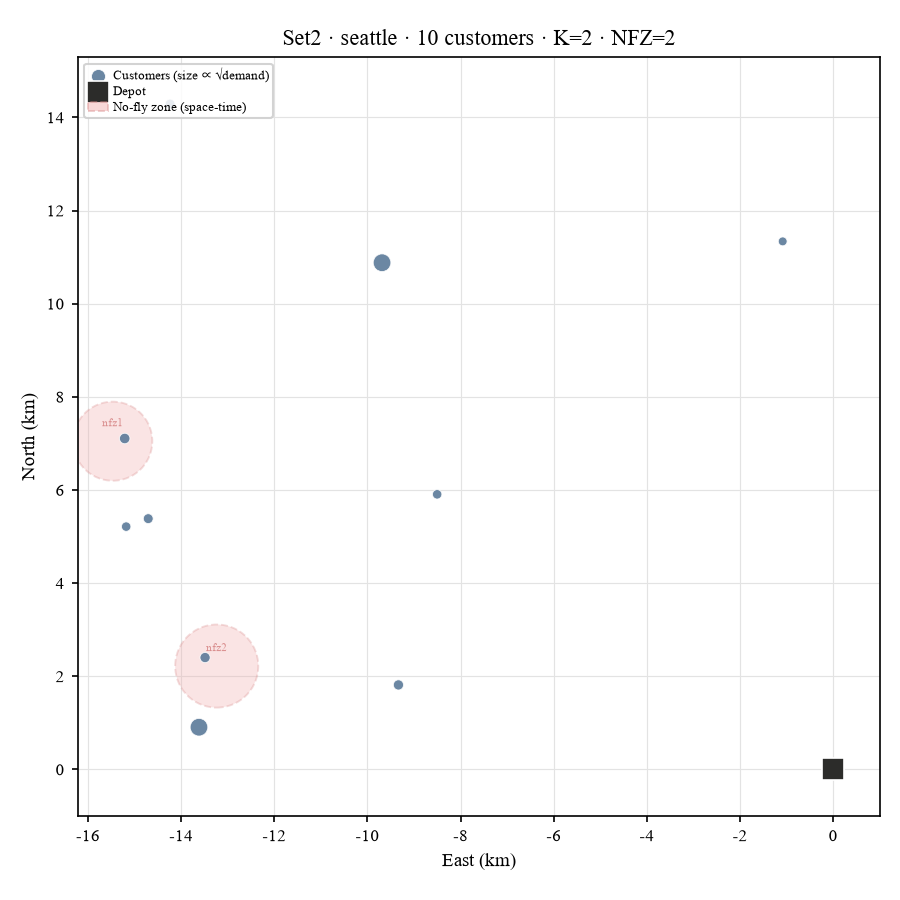
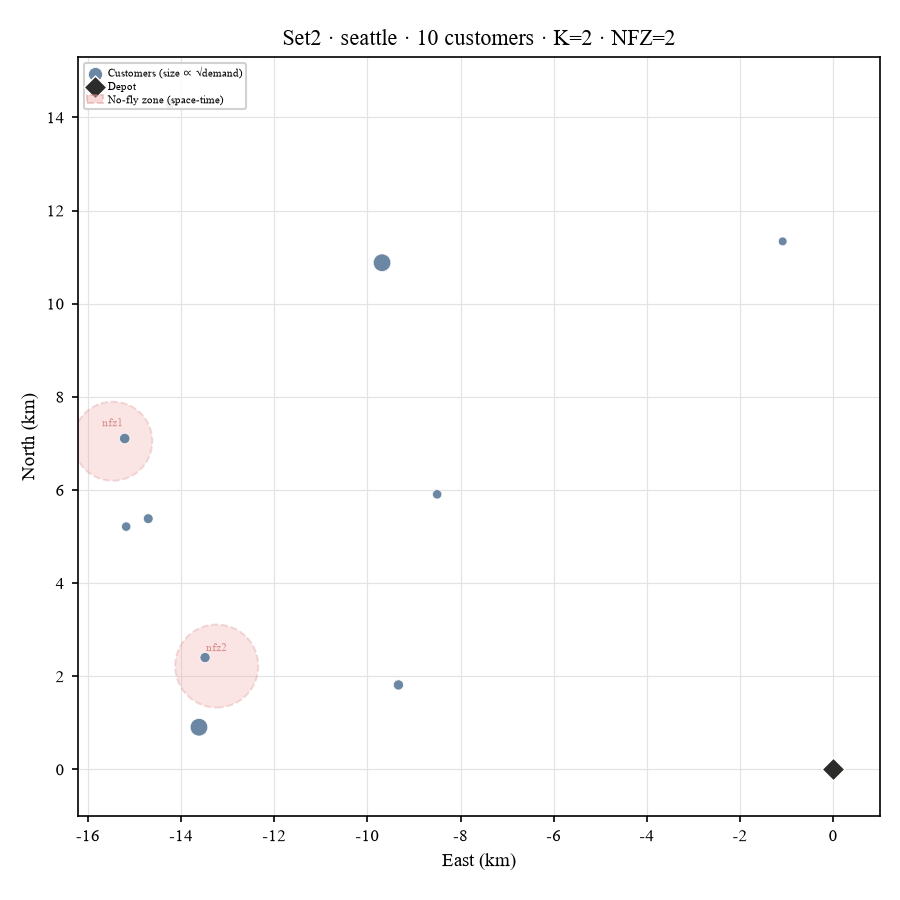
style: 路线图去挡路线的面板图例，仓库改小菱形
- 图例从面板内移到图外：plot_routes / compare_fig8 / all_sets 底部一条共享图例
  （solution_legend_handles() 通用六项，不逐卡车列，颜色看图即可）
- 仓库从大黑方块改为小菱形（network s=60 / solution s=42），不再压路线
- 客户点微调：卡车直服 13、无人机 9（空心）
- plot_all 面板图例关闭 + 底部共享图例；visualizer 图例收紧（fontsize 5.5）
- plot_solution 的 legend 参数默认 False（单图可显式开）

Changed region(s): [[0.0933, 0.0622, 0.3111, 0.1244], [0.9022, 0.84, 0.9333, 0.8711]]

diff --git a/src/visualizer.py b/src/visualizer.py
@@ -89,19 +89,44 @@ def plot_network(inst: Instance, ax=None, title: str | None = None, legend: bool
                linewidths=0.4, alpha=0.9, zorder=3, label="Customers (size ∝ √demand)")
 
     # 仓库
-    ax.scatter(*xy[0], s=110, marker="s", c=style.DEPOT, edgecolors="white",
-               linewidths=0.8, zorder=4, label="Depot")
+    ax.scatter(*xy[0], s=60, marker="D", c=style.DEPOT, edgecolors="white",
+               linewidths=0.7, zorder=4, label="Depot")
 
     if legend:
         nfz_proxy = Patch(facecolor=style.NFZ_FILL, alpha=0.45, edgecolor=style.NFZ_EDGE,
                           linewidth=0.9, linestyle="--", label="No-fly zone (space-time)")
         handles, labels = ax.get_legend_handles_labels()
         ax.legend(handles + [nfz_proxy], labels + ["No-fly zone (space-time)"],
-                  loc="upper left", fontsize=6, framealpha=0.85,
-                  handletextpad=0.4, borderpad=0.3, labelspacing=0.3)
+                  loc="upper left", fontsize=5.5, framealpha=0.9,
+                  handletextpad=0.4, borderpad=0.3, labelspacing=0.25,
+                  handlelength=1.4)
 
     _setup_axes(inst, ax, title)
     return ax
+
+
+def solution_legend_handles(inst: Instance) -> list:
+    """路线图的**通用**图例（不按卡车逐条列，卡车颜色看图即可）。"""
+    from matplotlib.lines import Line2D
+    from matplotlib.patches import Patch
+
+    handles = [
+        Line2D([], [], color="#555555", linewidth=1.3, label="Truck route (solid)"),
+        Line2D([], [], color="#555555", linewidth=0.9, linestyle=(0, (3, 2)),
+               label="Drone sortie (dashed)"),
+        Line2D([], [], color=style.CUSTOMER, marker="o", linestyle="none",
+               markersize=4.5, label="Truck-served customer"),
+        Line2D([], [], color="#555555", marker="o", markerfacecolor="white",
+               markeredgecolor="#555555", markeredgewidth=0.8, linestyle="none",
+               markersize=4.5, label="Drone-served customer"),
+        Line2D([], [], color=style.DEPOT, marker="D", linestyle="none",
+               markersize=5.5, label="Depot"),
+    ]
+    if inst.nfz:
+        handles.append(Patch(facecolor=style.NFZ_FILL, alpha=0.4,
+                             edgecolor=style.NFZ_EDGE, linewidth=0.8,
+                             linestyle="--", label="No-fly zone (space-time)"))
+    return handles
 
 
 def plot_solution(
@@ -109,13 +134,17 @@ def plot_solution(
     sol: "Solution",
     ax=None,
     title: str | None = None,
-    legend: bool = True,
+    legend: bool = False,
 ) -> None:
     """画完整解：卡车实线 + 无人机虚线 + 仓库 + 禁飞区（论文 Fig.8 的画法）。
 
     - 每辆卡车一色（`style.ROUTES`），卡车路径是实线；
     - 该车无人机的每个架次用**同色虚线**：起飞点 → 客户序列 → 回收点；
-    - 无人机服务的客户画小圆点，和卡车直服的点区分开（更小、更浅）。
+    - 无人机服务的客户画空心小圆，和卡车直服的实心点区分开；
+    - 仓库用小菱形（大黑方块太抢眼，也容易压住路线）。
+
+    图例默认**不画在面板里**（会挡路线）：多面板脚本用
+    `solution_legend_handles()` + `fig.legend()` 在图外放一条共享图例。
     """
     from .solution import DEPOT, Solution  # noqa: F401  避免循环导入
 
@@ -143,7 +172,7 @@ def plot_solution(
                     alpha=0.95, zorder=3)
             cx = [inst.base.nodes[n].x / 1000.0 for n in s.customers]
             cy = [inst.base.nodes[n].y / 1000.0 for n in s.customers]
-            ax.scatter(cx, cy, s=8, facecolor="white", edgecolor=c, linewidths=0.7,
+            ax.scatter(cx, cy, s=9, facecolor="white", edgecolor=c, linewidths=0.7,
                        zorder=4)
 
     # 客户（卡车直服）：比无人机服务的点更小
@@ -151,54 +180,50 @@ def plot_solution(
     truck_served = {n for r in sol.routes for n in r.nodes if n != DEPOT}
     if truck_served:
         idx = sorted(truck_served)
-        ax.scatter(xy[idx, 0], xy[idx, 1], s=10, c=style.CUSTOMER, edgecolors="white",
+        ax.scatter(xy[idx, 0], xy[idx, 1], s=13, c=style.CUSTOMER, edgecolors="white",
                    linewidths=0.4, zorder=5, label="Truck-served customers")
-    ax.scatter(*xy[0], s=70, marker="s", c=style.DEPOT, edgecolors="white",
+    ax.scatter(*xy[0], s=42, marker="D", c=style.DEPOT, edgecolors="white",
                linewidths=0.7, zorder=6, label="Depot")
 
     if legend:
-        from matplotlib.lines import Line2D
-        from matplotlib.patches import Patch
-
-        handles: list = []
-        n_shown = 0
-        for r in sol.routes:
-            if len(r.nodes) <= 2 and not r.sorties:
-                continue
-            if n_shown >= 10:
-                handles.append(Line2D([], [], color="none", label="…"))
-                break
-            handles.append(Line2D([], [], color=style.route_color(r.truck), linewidth=1.2,
-                                  label=f"Truck {r.truck}"))
-            n_shown += 1
-        handles.append(Line2D([], [], color="#888888", linewidth=0.9,
-                              linestyle=(0, (3, 2)), label="Drone sorties"))
-        handles.append(Line2D([], [], color=style.CUSTOMER, marker="o", linestyle="none",
-                              markersize=3.5, label="Truck-served customers"))
-        handles.append(Line2D([], [], color=style.DEPOT, marker="s", linestyle="none",
-                              markersize=5, label="Depot"))
-        if inst.nfz:
-            handles.append(Patch(facecolor=style.NFZ_FILL, alpha=0.45,
-                                 edgecolor=style.NFZ_EDGE, linewidth=0.9,
-                                 linestyle="--", label="No-fly zone (space-time)"))
-        ax.legend(handles=handles, loc="upper left", fontsize=5.5, framealpha=0.95,
-                  handletextpad=0.4, borderpad=0.3, labelspacing=0.25,
-                  handlelength=1.6)
+        ax.legend(handles=solution_legend_handles(inst), loc="upper left", fontsize=6,
+                  framealpha=0.95, handletextpad=0.4, borderpad=0.35,
+                  labelspacing=0.3, handlelength=1.8)
 
     _setup_axes(inst, ax, title)
 
 
 def plot_all(instances: list[Instance], path: Path) -> Path:
-    """4×4 总览图。"""
-    fig, axes = plt.subplots(4, 4, figsize=(13, 13))
+    """4×4 总览图：面板不带图例，底部一条共享图例。"""
+    fig, axes = plt.subplots(4, 4, figsize=(13, 13.6))
     for ax, inst in zip(axes.ravel(), instances):
-        plot_network(inst, ax=ax)
-    fig.suptitle("16 个复现算例：节点分布与时空禁飞区", fontsize=12)
-    fig.tight_layout(rect=(0, 0, 1, 0.98))
+        plot_network(inst, ax=ax, legend=False)
+    fig.suptitle("16 instances: customers, depot and space-time no-fly zones", fontsize=12)
+    handles = _network_legend_handles(instances[0])
+    fig.legend(handles=handles, loc="lower center", ncol=3, fontsize=8,
+               frameon=False, bbox_to_anchor=(0.5, 0.005))
+    fig.tight_layout(rect=(0, 0.035, 1, 0.98))
     path.parent.mkdir(parents=True, exist_ok=True)
     fig.savefig(path, dpi=150)
     plt.close(fig)
     return path
+
+
+def _network_legend_handles(inst: Instance) -> list:
+    from matplotlib.lines import Line2D
+    from matplotlib.patches import Patch
+
+    handles = [
+        Line2D([], [], color=style.CUSTOMER, marker="o", linestyle="none",
+               markersize=4.5, label="Customers (size ∝ √demand)"),
+        Line2D([], [], color=style.DEPOT, marker="D", linestyle="none",
+               markersize=5.5, label="Depot"),
+    ]
+    if inst.nfz:
+        handles.append(Patch(facecolor=style.NFZ_FILL, alpha=0.4,
+                             edgecolor=style.NFZ_EDGE, linewidth=0.8,
+                             linestyle="--", label="No-fly zone (space-time)"))
+    return handles
 
 
 def main() -> None:

diff --git a/scripts/plot_routes.py b/scripts/plot_routes.py
@@ -23,7 +23,7 @@ from src.evaluator import evaluate
 from src.generator import build_instance
 from src.io import PROJECT_ROOT, load_config, load_sets
 from src.solution import solution_from_dict, solution_to_dict
-from src.visualizer import plot_solution
+from src.visualizer import plot_solution, solution_legend_handles
 
 CACHE = PROJECT_ROOT / "results" / "solutions"
 FIG_DIR = PROJECT_ROOT / "results" / "figs"
@@ -87,7 +87,7 @@ def main() -> None:
         inst = build_instance(by_id[sid], cfg)
         sol, cost, cached = get_solution(inst, refresh=args.refresh)
         plot_solution(
-            inst, sol, ax=ax,
+            inst, sol, ax=ax, legend=False,
             title=f"Set{sid} · {inst.n_customers} customers · K={inst.n_trucks} · cost {cost:.1f}",
         )
         tag = "缓存" if cached else "新解"
@@ -96,12 +96,15 @@ def main() -> None:
     for ax in axes[n:]:
         ax.set_axis_off()
 
-    fig.suptitle("ALNS solutions: truck routes (solid, one color per truck) + drone sorties (dashed) + no-fly zones",
+    fig.suptitle("ALNS solutions: truck routes (solid, one color per truck) + drone sorties (dashed)",
                  fontsize=11)
-    fig.tight_layout(rect=(0, 0, 1, 0.97))
+    fig.legend(handles=solution_legend_handles(inst), loc="lower center",
+               ncol=6, fontsize=8, frameon=False,
+               bbox_to_anchor=(0.5, -0.005))
+    fig.tight_layout(rect=(0, 0.045, 1, 0.97))
     out = FIG_DIR / ("routes_all.png" if args.all else "routes_fig8.png")
     out.parent.mkdir(parents=True, exist_ok=True)
-    fig.savefig(out, dpi=170)
+    fig.savefig(out, dpi=170, bbox_inches="tight")
     plt.close(fig)
     print(f"\n已写出 {out.relative_to(PROJECT_ROOT)}")
 

diff --git a/scripts/compare_fig8.py b/scripts/compare_fig8.py
@@ -22,7 +22,7 @@ from PIL import Image
 from src.generator import build_instance
 from src.io import PROJECT_ROOT, load_config, load_sets
 from scripts.plot_routes import get_solution
-from src.visualizer import plot_solution
+from src.visualizer import plot_solution, solution_legend_handles
 
 PDF = PROJECT_ROOT / "Zeng 等 - 2026 - Optimizing bidirectional delivery with multiple drones and trucks a mixed-integer nonlinear model t.pdf"
 PAGE_PNG = PROJECT_ROOT / ".tmp" / "hi20-20.png"
@@ -73,7 +73,7 @@ def main() -> None:
         inst = build_instance(by_id[sid], cfg)
         sol, cost, _ = get_solution(inst)
         ax_bot = axes[1, col]
-        plot_solution(inst, sol, ax=ax_bot, legend=(sid != PICK[-1]))
+        plot_solution(inst, sol, ax=ax_bot, legend=False)
         ax_bot.set_title(
             f"Ours  Set{sid}  K={inst.n_trucks}  cost {cost:.1f}", fontsize=9
         )
@@ -84,6 +84,8 @@ def main() -> None:
 
     fig.text(0.02, 0.955, "Paper Fig.8 (with routes)", fontsize=10)
     fig.text(0.02, 0.475, "This project: ALNS solutions (same palette & style)", fontsize=10)
+    fig.legend(handles=solution_legend_handles(inst), loc="lower center",
+               ncol=6, fontsize=8, frameon=False, bbox_to_anchor=(0.5, -0.005))
     fig.suptitle("Instance comparison: paper Fig.8 vs. this project", fontsize=13, y=0.995)
 
     OUT.parent.mkdir(parents=True, exist_ok=True)
